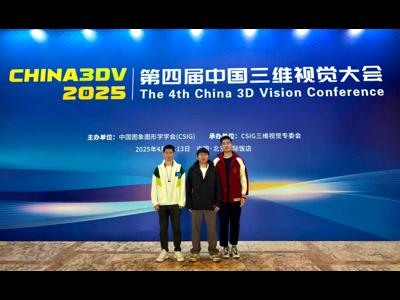
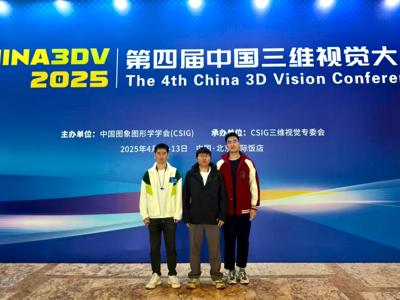
adjust image sizes

diff --git a/common/tools/resize_photo.py b/common/tools/resize_photo.py
@@ -1,31 +1,48 @@
 from PIL import Image
 
-def resize_and_crop(image_path, output_path, target_width, target_height):
+def resize_and_crop(image_path, output_path, target_width, target_height, priority='height'):
     img = Image.open(image_path)
-    
     original_width, original_height = img.size
-    
-    new_width = target_width
-    new_height = int(target_width * original_height / original_width)
-    img_resized = img.resize((new_width, new_height))
 
-    left = 0
-    top = (new_height - target_height) // 2
-    right = new_width
-    bottom = top + target_height
+    if priority == 'height':
+        # 优先满足高度
+        new_height = target_height
+        new_width = int(target_height * original_width / original_height)
+        img_resized = img.resize((new_width, new_height))
+
+        # 居中裁剪宽度
+        left = (new_width - target_width) // 2
+        top = 0
+        right = left + target_width
+        bottom = new_height
+
+    elif priority == 'width':
+        # 优先满足宽度
+        new_width = target_width
+        new_height = int(target_width * original_height / original_width)
+        img_resized = img.resize((new_width, new_height))
+
+        # 居中裁剪高度
+        left = 0
+        top = (new_height - target_height) // 2
+        right = new_width
+        bottom = top + target_height
+
+    else:
+        raise ValueError("priority must be either 'height' or 'width'")
 
     img_cropped = img_resized.crop((left, top, right, bottom))
-
     img_cropped.save(output_path)
 
-image_path = 'common/img/lys.jpg' 
+
+image_path = 'common/img/china-3dv-2025.jpg' 
 output_path = image_path.replace('.jpg', '-resized.jpg')
 # output_path = image_path.replace('.png', '-resized.png')
 # pattern for people images
-target_width = 300  
-target_height = 400
+# target_width = 300  
+# target_height = 400
 # patern for group images
-# target_width = 400  
-# target_height = 300 
+target_width = 400  
+target_height = 300 
 
 resize_and_crop(image_path, output_path, target_width, target_height)
